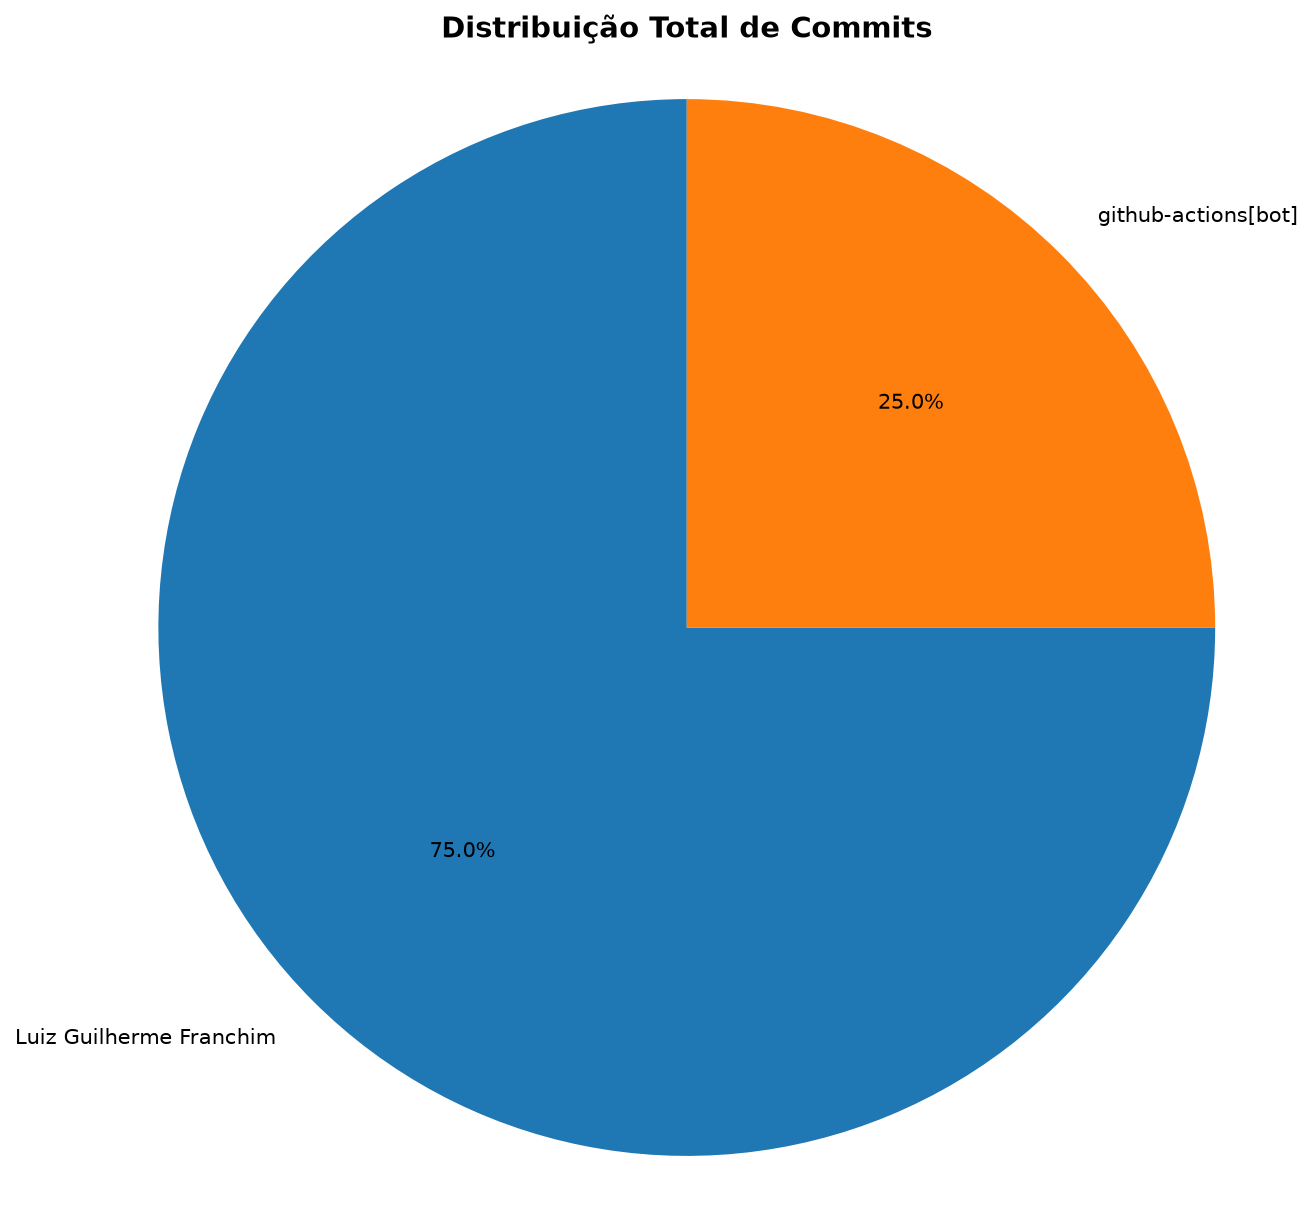
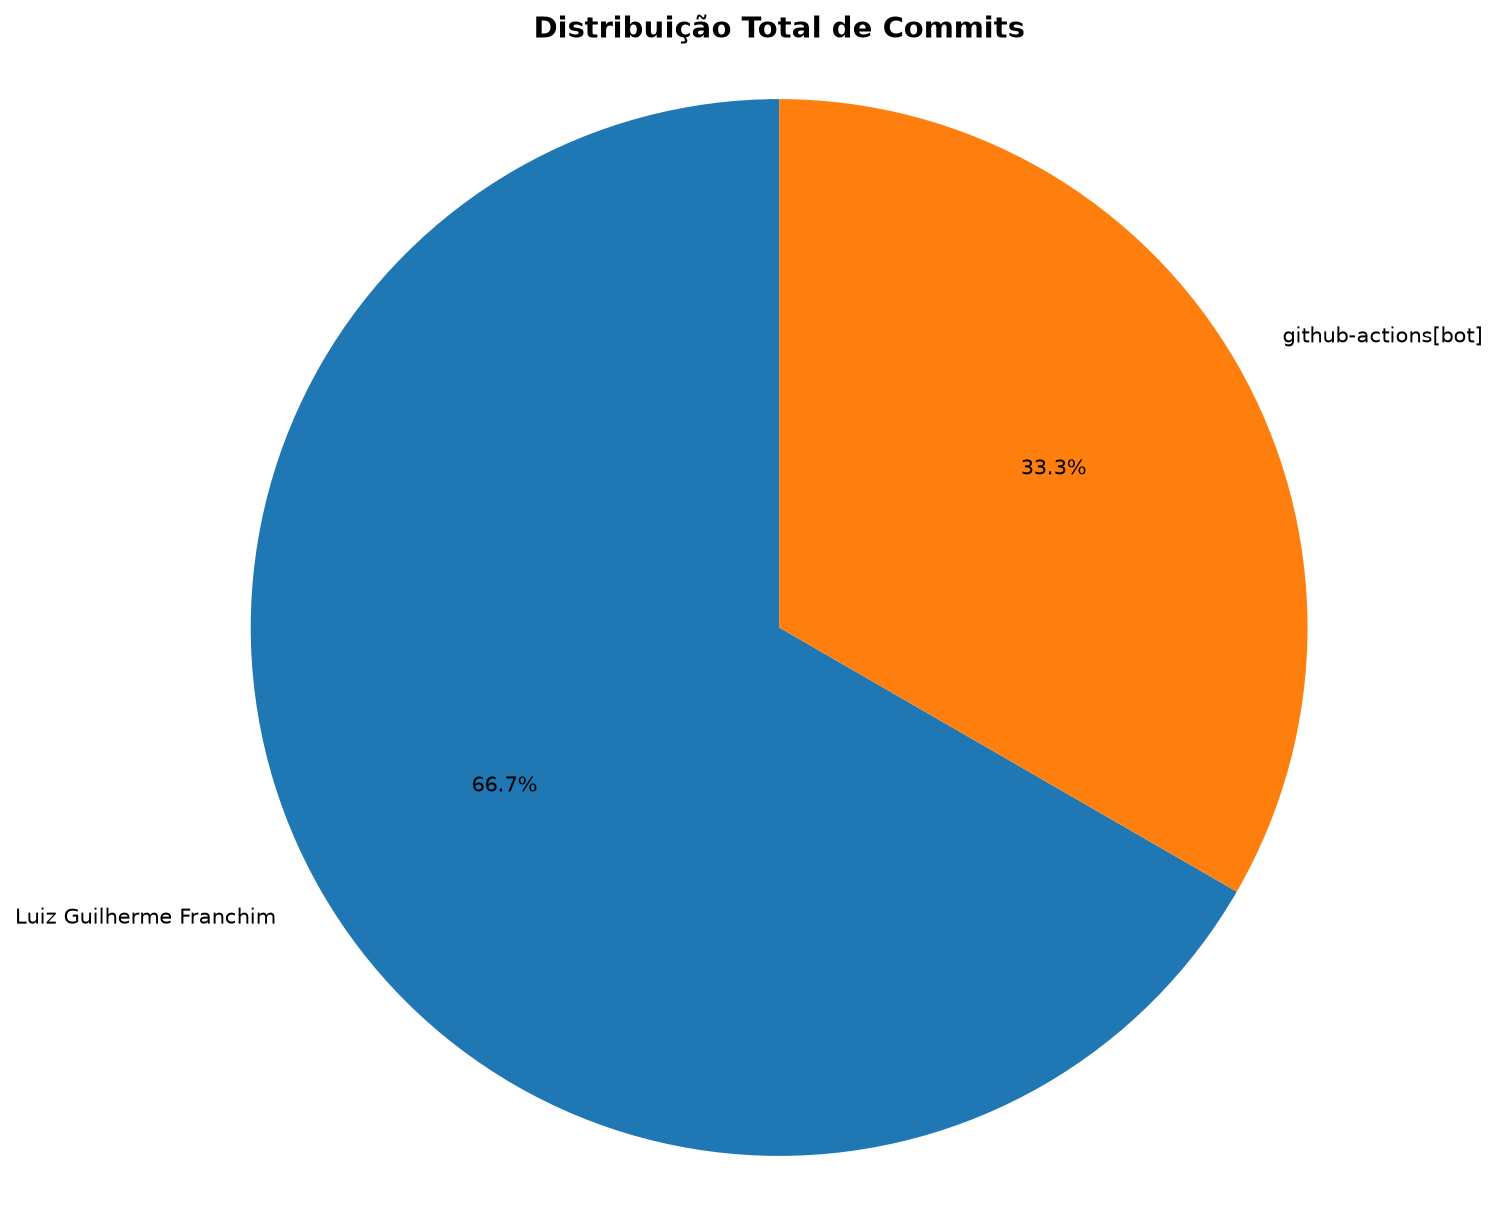
📊 Atualizar relatório de contribuições [skip ci]

diff --git a/documentos/CONTRIBUTION_REPORT.md b/documentos/CONTRIBUTION_REPORT.md
@@ -1,6 +1,6 @@
 # 📊 Relatório de Contribuições do Projeto
 
-**Última atualização:** 07/09/2026 02:45
+**Última atualização:** 07/09/2026 02:46
 
 ---
 
@@ -8,13 +8,13 @@
 
 | Aluno                   |   Commits |   Linhas+ |   Linhas- |   Arquivos |   Docs Commits |   Docs Arquivos |
 |-------------------------|-----------|-----------|-----------|------------|----------------|-----------------|
-| Luiz Guilherme Franchim |         3 |       803 |        18 |         19 |              3 |               3 |
-| github-actions[bot]     |         1 |        43 |         0 |          3 |              1 |               1 |
+| Luiz Guilherme Franchim |         4 |       905 |        49 |         19 |              4 |               3 |
+| github-actions[bot]     |         2 |        47 |         3 |          3 |              2 |               1 |
 
 
 ## 📅 Contribuições Semanais (Todo o Semestre)
 
-**2026-08-31**: Luiz Guilherme Franchim: 3, github-actions[bot]: 1
+**2026-08-31**: Luiz Guilherme Franchim: 4, github-actions[bot]: 2
 
 
 
